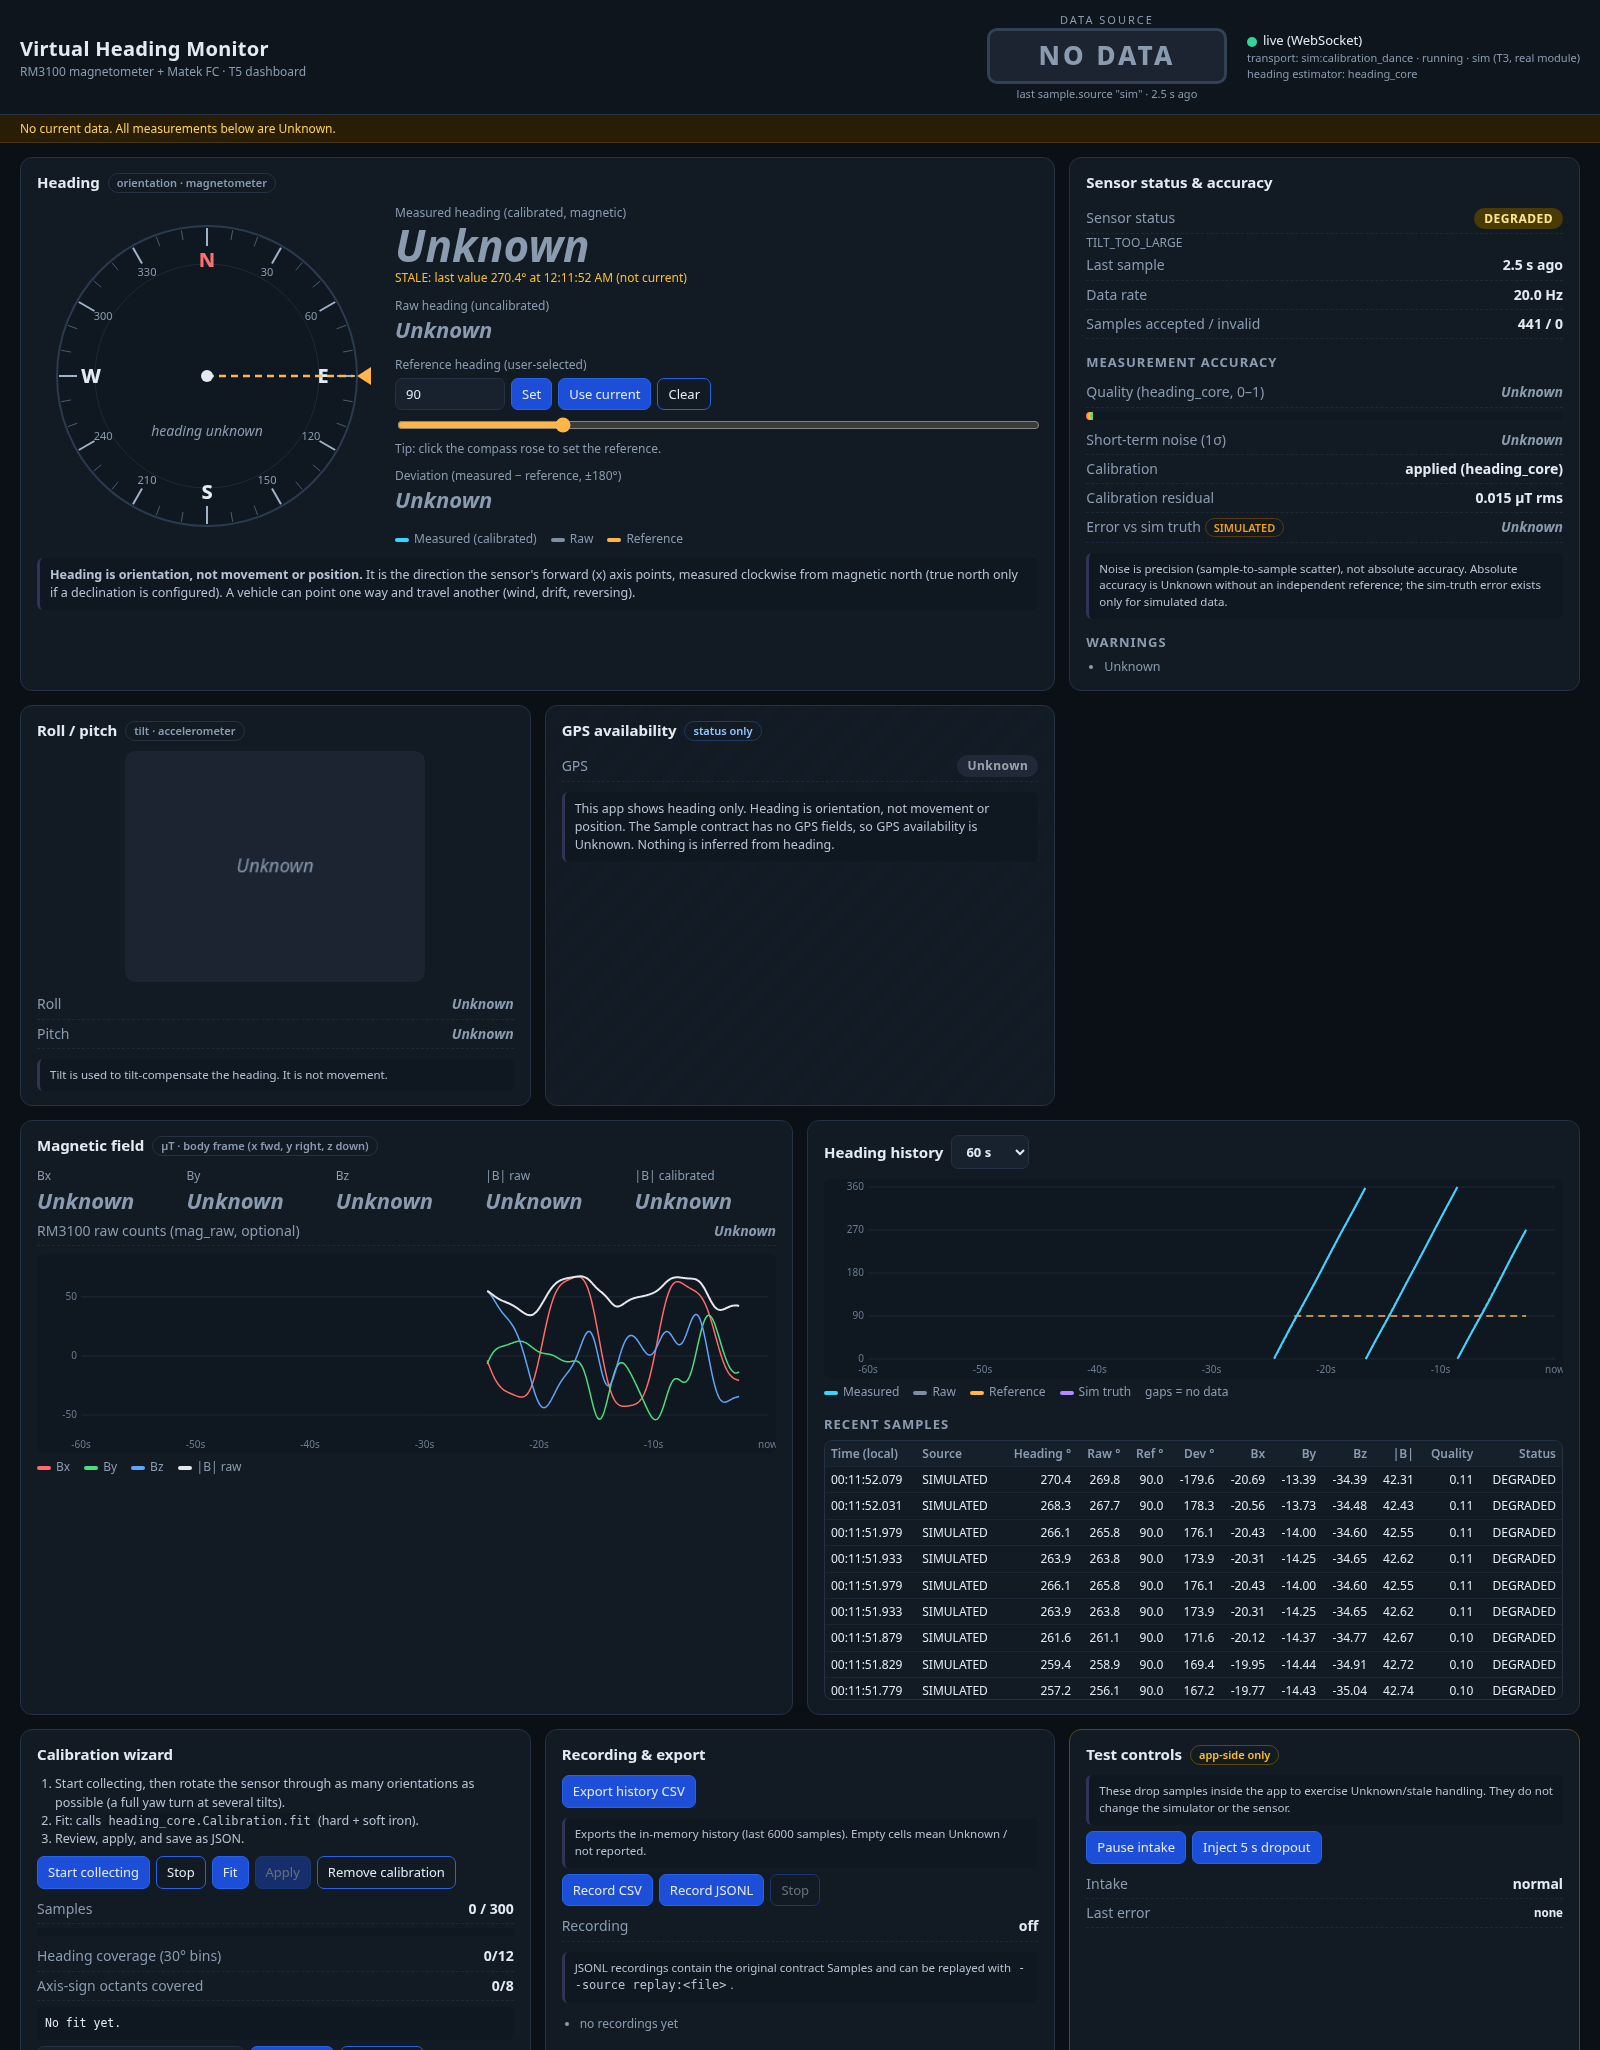
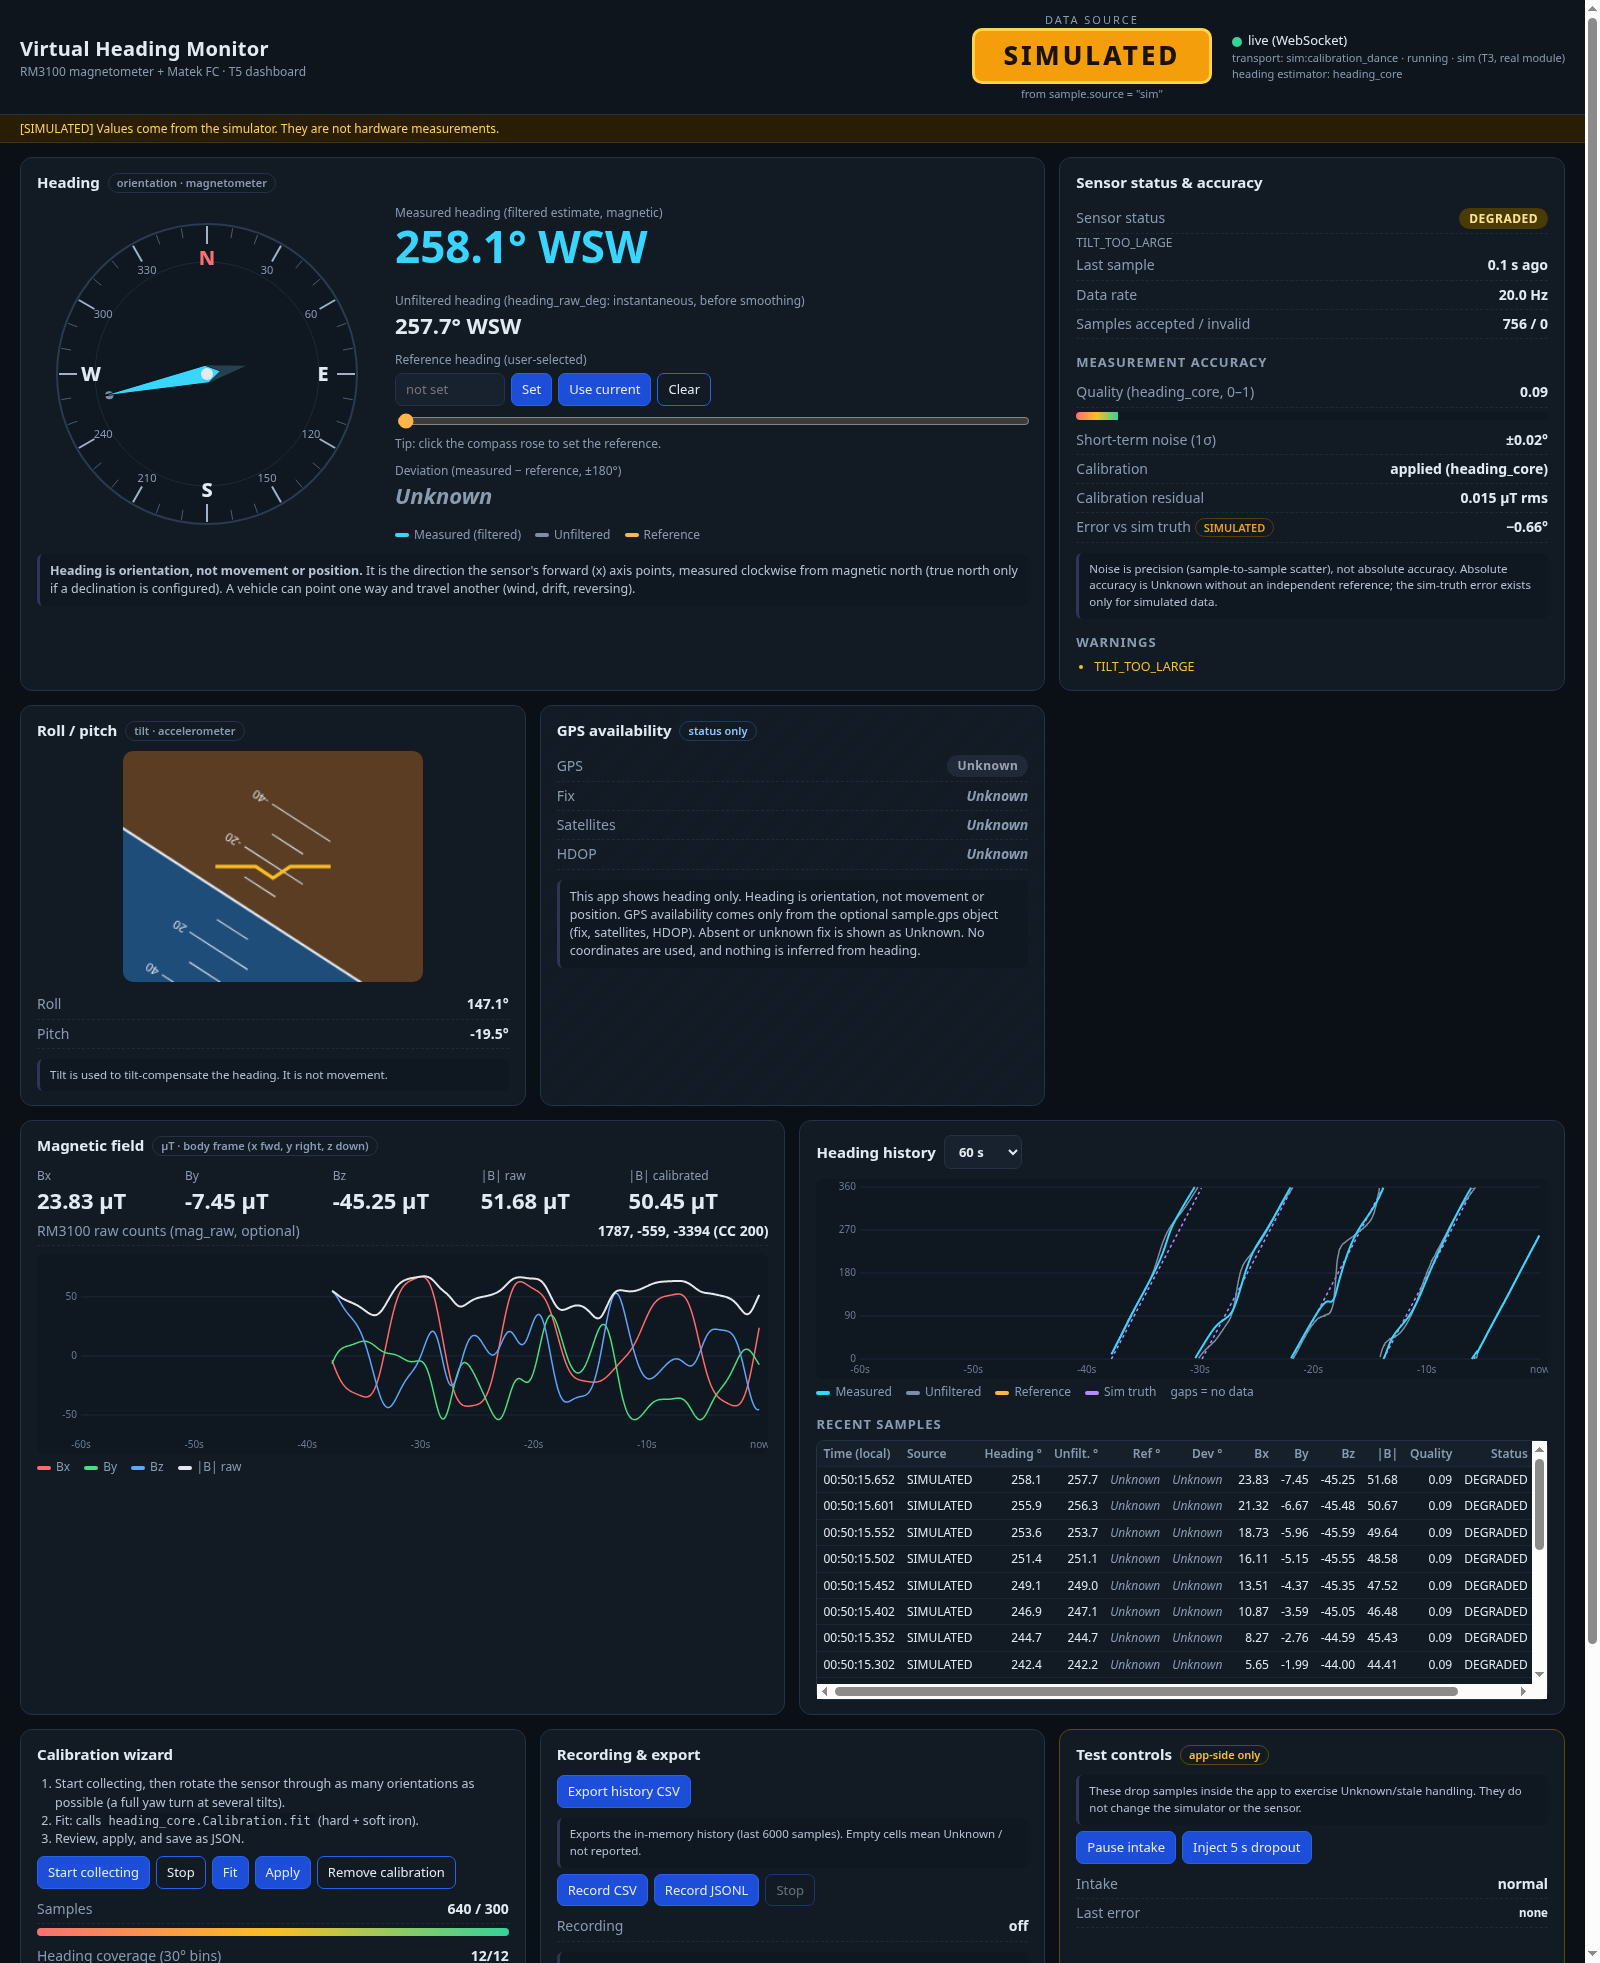
[ui] contribution report reports/contributions/ui.md (deliverables, executed tests incl. fresh app/tests 45 passed, limitations, spend: none); refresh t5 screenshots to current labels

diff --git a/reports/contributions/ui.md b/reports/contributions/ui.md
@@ -1,0 +1,88 @@
+# Contribution report — UI & Software Developer (T5, `app/`)
+
+**Status:** T5 at REVIEW (PM accepted pending the Auditor's sign-off).
+**Evidence level:** every heading, field and accuracy number shown in the app, the screenshots and the demo video is `[SIMULATED]` (T3 sim) or a replay of a simulated log. Nothing here is hardware-verified: no RM3100, Matek CAN-L4-3100 or flight controller was ever connected to the app.
+**Scope:** compass heading only. The app has no position, coordinate, map, speed, course or distance features and makes no navigation claims; GPS appears only as a read-only availability indicator.
+
+Filename: `ui.md`, following the area-named siblings (`maths.md`, `sim.md`, `firmware.md`, `hardware.md`, `hub.md`).
+
+## 1. Deliverables
+| Path | Content |
+|---|---|
+| `app/__main__.py` | CLI: `python -m app --source sim[:scenario]\|replay:<file>\|serial:<port>\|ingest` → http://localhost:8080. Options `--host`, `--port` (0 = OS-assigned ephemeral port, real port logged), `--rate`, `--seed`, `--sim-duration`, `--baud`, `--speed`, `--loop`, `--declination`, `--stale`, `--calibration`, `-v` |
+| `app/sources.py` | Sample sources: real sim subprocess (`python -m sim --realtime`), replay (paced by `t`), serial (via `python -m firmware_bridge`, never stubbed), ingest (`POST /api/sample`); contract validation (`mag_raw` optional, `gps` optional, no coordinates) |
+| `app/core_adapter.py`, `app/_stubs.py` | heading_core `Calibration`/`HeadingEstimator` through the ARCHITECTURE.md interface; labelled local stubs used only on `NotImplementedError` (currently inactive) |
+| `app/hub.py`, `app/server.py` | State, history (6000 samples), sensor status OK/DEGRADED/FAULT/STALE/NO DATA, calibration wizard, CSV/JSONL recorder; stdlib HTTP + RFC 6455 WebSocket push (10 Hz) and the REST API listed in `app/README.md` |
+| `app/static/` | Vanilla JS/SVG/canvas UI, no CDN or build step: DATA SOURCE badge taken only from `sample.source`, compass with separate measured/reference indicators, filtered and unfiltered heading, roll/pitch, field plot, quality bar and warnings, GPS availability indicator, history chart/table, CSV export, calibration wizard; unavailable values shown as Unknown |
+| `app/tests/` | 45 tests: core adapter, heading maths (Python + Node), HTTP/WebSocket smoke tests, 3 headless-Chrome DOM tests driven over the DevTools protocol; all on ephemeral ports |
+| `app/README.md` | Run, architecture, UI table, heading-only section, Unknown/stale rules, data interfaces, tests, LIMITATIONS 0–10 |
+| `INSTALL.md` | Clean install, running each source, running every test suite, real verification log from a fresh clone + fresh venv |
+| `reports/demo/demo.mp4` | 71.48 s, 1440×900, H.264 25 fps, 2,463,884 bytes; real app on ephemeral ports; SIMULATED badge and the caption "Simulated data — not hardware-verified. Compass heading only; no position or navigation." on every frame |
+| `reports/demo/*.png`, `README.md`, `make_demo.py`, `demo_metrics.json`, `demo_tilted_spin_recording.jsonl` | Stills `01`–`06`, exact commands, the reproducible script, measured scene metrics `[SIMULATED]`, and the JSONL replayed in scene 6 |
+| `reports/screenshots/t5_*.png` | 4 screenshots of the real running app: dashboard (`sim:tilted_spin`), calibration applied (`sim:calibration_dance`), GPS indicator (ingest), no current data → Unknown. Refreshed in this commit to the current labels |
+| `TEAM_TRACKER.md` (T5 row + UI changelog lines) | Status, test counts, limitations mirror |
+
+Commits: `84fc231` (T5 → REVIEW: app, 40 tests, LIMITATIONS, screenshots), `516f80c` (GPS indicator wired to `sample.gps`, all tests on `--port 0`, deterministic headless UI tests), `41bb756` (demo video, INSTALL.md, `--sim-duration`, filtered/unfiltered labels, 45 tests), `8687ab8` (INSTALL.md fresh-venv verification log, README tests section, tracker row), plus the commit adding this file and the refreshed screenshots (message starting `[ui] contribution report`; see `git log -- reports/contributions/ui.md`).
+
+Demo metrics `[SIMULATED]` (from `reports/demo/demo_metrics.json`): mean |heading error vs sim truth| 21.40° before calibration (n = 161) and 0.418° after (n = 120); fit by `heading_core.Calibration.fit` on 681 samples, residual 0.0156 µT; `motor_interference` shows DEGRADED with FIELD_MAGNITUDE_OUT_OF_RANGE, HIGH_NOISE.
+
+## 2. Tests actually executed
+All from the repo root. Environment: Python 3.13.5, pytest 9.2.0, numpy 2.5.5, jsonschema 4.26.0, google-chrome (headless), Node v24.22.1. Results copied from the console output.
+
+Re-run now, 2026-11-27 00:49–00:51 IST, HEAD `8687ab8`, system Python:
+
+| Command | Result |
+|---|---|
+| `python3 -m pytest app/tests -q` | **45 passed** in 19.92 s |
+| `python3 -m pytest tests/test_t6_app.py -q` (Auditor's app tests) | **10 passed** |
+| `python3 -m pytest tests/test_t6_claims.py -q` (Auditor's claims test, with this file present) | **1 failed, 3 passed**; the one failure is `reports/contributions/maths.md:30` (details below) |
+
+Earlier executed results (not re-run in this session):
+
+| When / commit | Command | Result |
+|---|---|---|
+| `516f80c` | `python3 -m pytest app/tests/test_app_ui_headless.py -q`, 10 consecutive runs | **10/10 passed** (3/3 each, about 4 s per run); fixed the flake where the badge showed NO DATA once |
+| `516f80c` | `python3 -m pytest app/tests -q`, 3 runs | 44 passed ×3 |
+| `516f80c` | `python3 -m pytest tests/test_t6_app.py tests/test_t6_claims.py -q` | 14 passed |
+| before `41bb756` | `python3 -m pytest app/tests -q`, 3 runs | 45 passed ×3 |
+
+Fresh-clone verification of `INSTALL.md` (2026-11-26/27 night IST): `git clone /workspace/heading-monitor /tmp/hm-clone` at `41bb756`, `python3 -m venv /tmp/hm-venv`, `pip install -r requirements.txt`, pyserial not installed:
+
+| Command | Result |
+|---|---|
+| `python -m pytest app/tests -q` | 45 passed |
+| `python -m pytest tests -q` | 105 passed |
+| `python -m pytest heading_core/tests -q` | 76 passed |
+| `python -m pytest docs/math/sensor-spec -q` | 23 passed |
+| `python -m pytest sim/tests -q` | 152 passed, 44 skipped (sim's deliberate N/A spec keys) |
+| `python -m pytest firmware_bridge/tests -q` | 94 passed, 1 skipped (pyserial absent); 95 passed after `pip install pyserial` |
+| `python -m pytest docs/firmware/research -q` | 4 passed |
+| all seven paths in one run, and bare `python -m pytest -q` | **499 passed, 45 skipped** |
+| `python -m app --source sim:tilted_spin --port 0` | sensor OK, source sim, estimator heading_core, 96/96 accepted |
+| `python -m app --source replay:reports/demo/demo_tilted_spin_recording.jsonl --port 0` | OK, source sim (badge SIMULATED), 99/99 accepted |
+| `python -m app --source ingest --port 0` | NO DATA, "no valid sample received yet" (expected) |
+| `python -m app --source serial:/dev/ttyNONE --port 0` | FAULT, pyserial missing; with pyserial: FAULT, "could not open port /dev/ttyNONE" |
+
+Claims test: `python3 -m pytest tests/test_t6_claims.py -q` gave **1 failed, 3 passed** on `8687ab8`, both before and after this file was added (ui.md adds no failure). The single failure is `test_Q1b_navigation_claims`, flagging `reports/contributions/maths.md:30` (the Mathematics & Sensor Scientist's file, not mine). No app/ or ui.md line is flagged; app/ and reports/demo lines appear only in the informational inventory because they negate position features.
+
+Screenshots in this commit were produced by `/workspace/heading-monitor-runlogs/make_t5_screenshots.py` (real app via `run_app --port 0`, headless Chrome over CDP) and checked by eye: badge SIMULATED or NO DATA as expected, GPS Available/3D/9/0.9 for the ingest sample with `gps`, all values Unknown after the sample went stale.
+
+## 3. Open limitations
+Full text in `app/README.md` → LIMITATIONS (mirrored in the T5 row):
+- U0. Heading only by PM decision: no position, coordinate, map, speed, course or distance features. The GPS indicator reads the optional `sample.gps` {fix, num_sat, hdop}; no current source (sim) emits it, so it normally reads Unknown. firmware_bridge's MSP_RAW_GPS path is untested with the app.
+- U1. `mag_raw` is optional (CAN-L4-3100 sends scaled field, no raw counts).
+- U2. Accuracy shown is precision (noise 1σ), quality and calibration residual, not absolute accuracy; error vs truth exists only for simulated data. Nothing here is hardware-verified.
+- U3. The serial path was never run against a real flight controller, a live firmware_bridge session or the CAN-L4-3100; only a non-existent port (FAULT) was exercised.
+- U4. Replay keeps the original `source` (a replayed sim log shows SIMULATED; transport shown separately).
+- U5. Stubs exist but are inactive (heading_core and sim are real); firmware_bridge is never stubbed.
+- U6. The calibration wizard shows coverage but does not guide the user per orientation.
+- U7. One source per process; switching needs a restart; only one process can hold port 8080.
+- U8. Local only, no authentication.
+- U9. History is in memory (6000 samples); use recording for longer runs.
+- U10. UI checked automatically and by screenshots only; human usability not assessed; layout checked at 1440–1600 px width only.
+- The `reports/screenshots/t5_*.png` committed in `84fc231`/`516f80c` showed the earlier "calibrated/raw" labels; refreshed in this commit to the current "Measured (filtered)" / "Unfiltered" labels. Screenshots in older commits remain outdated.
+- The demo video omits the stale/NO DATA scene so the SIMULATED badge stays visible throughout; stale → Unknown is covered by `t5_no_current_data_unknown.png` and the headless test instead.
+- The `calibration_applied` screenshot shows DEGRADED / TILT_TOO_LARGE because the calibration_dance scenario is still tumbling; that is the real app state at capture time.
+
+## 4. Money spent and paid tools
+**Money spent: none. Paid tools or services: none.** Free tools used: Python 3 standard library (HTTP server, WebSocket, subprocess), pytest, numpy, jsonschema (via the shared requirements), headless Google Chrome driven over the DevTools protocol, ffmpeg (libx264) for the demo video, Node.js for the front-end maths tests, git. No CDN, Playwright, paid API or cloud service.
